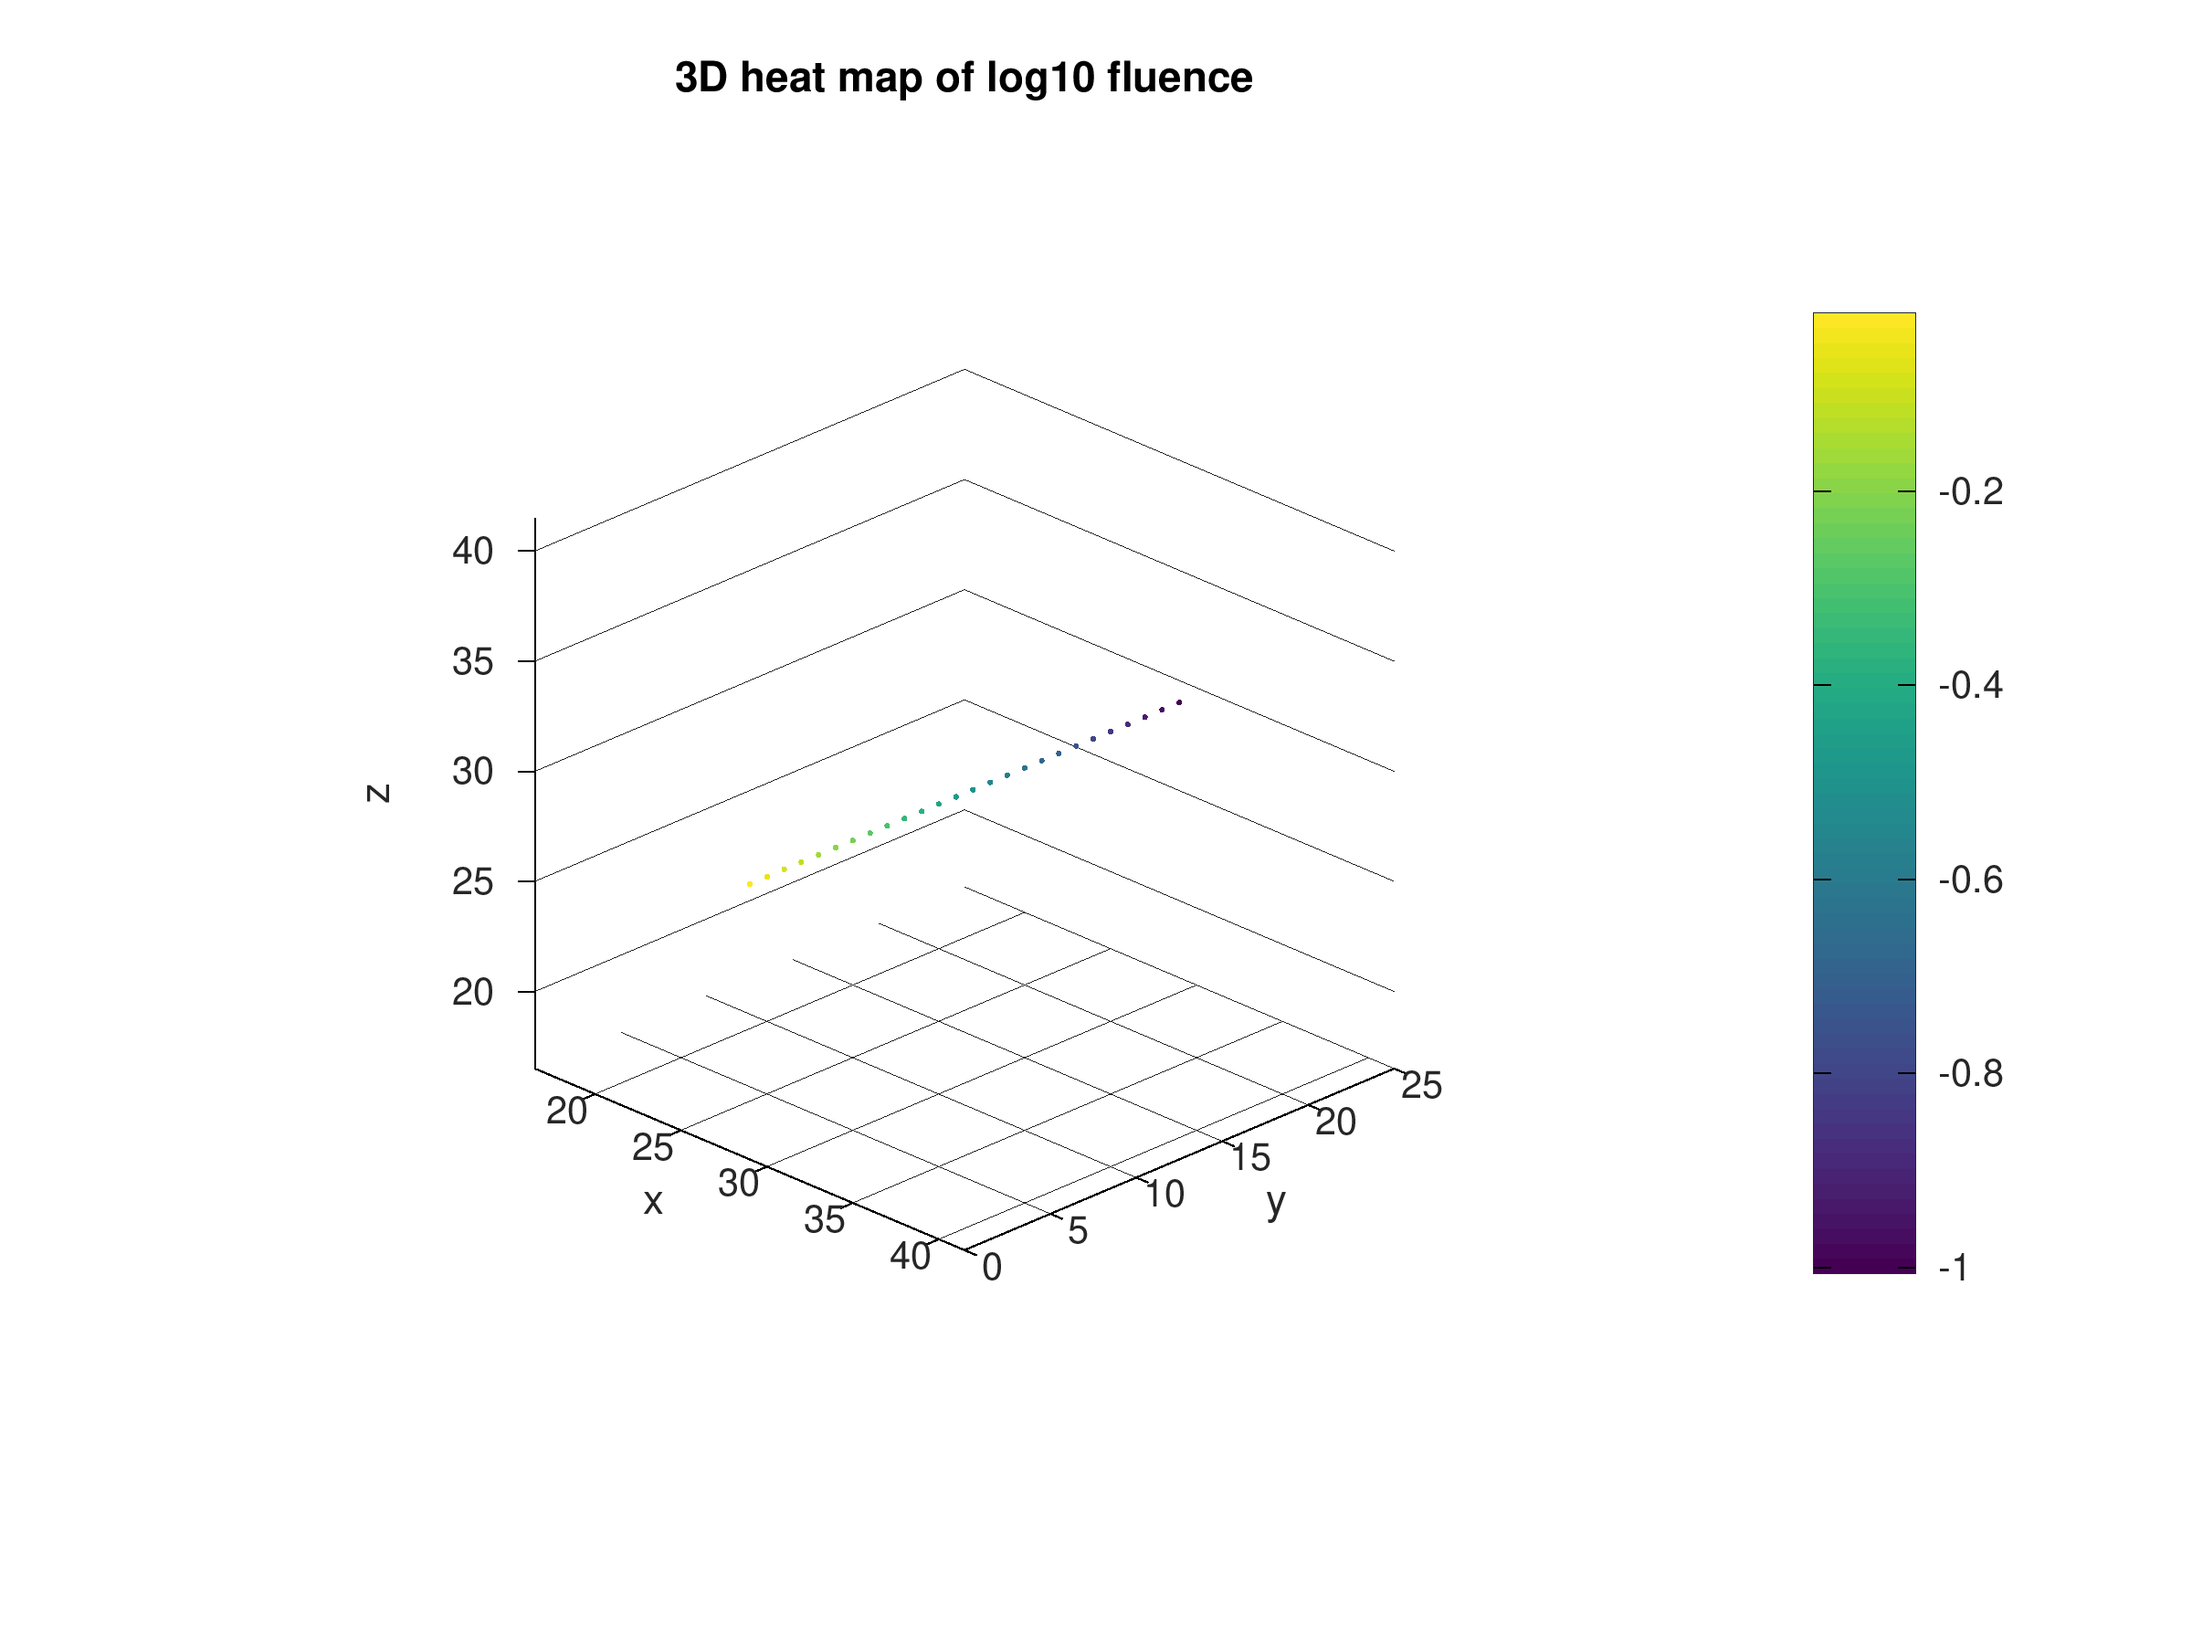
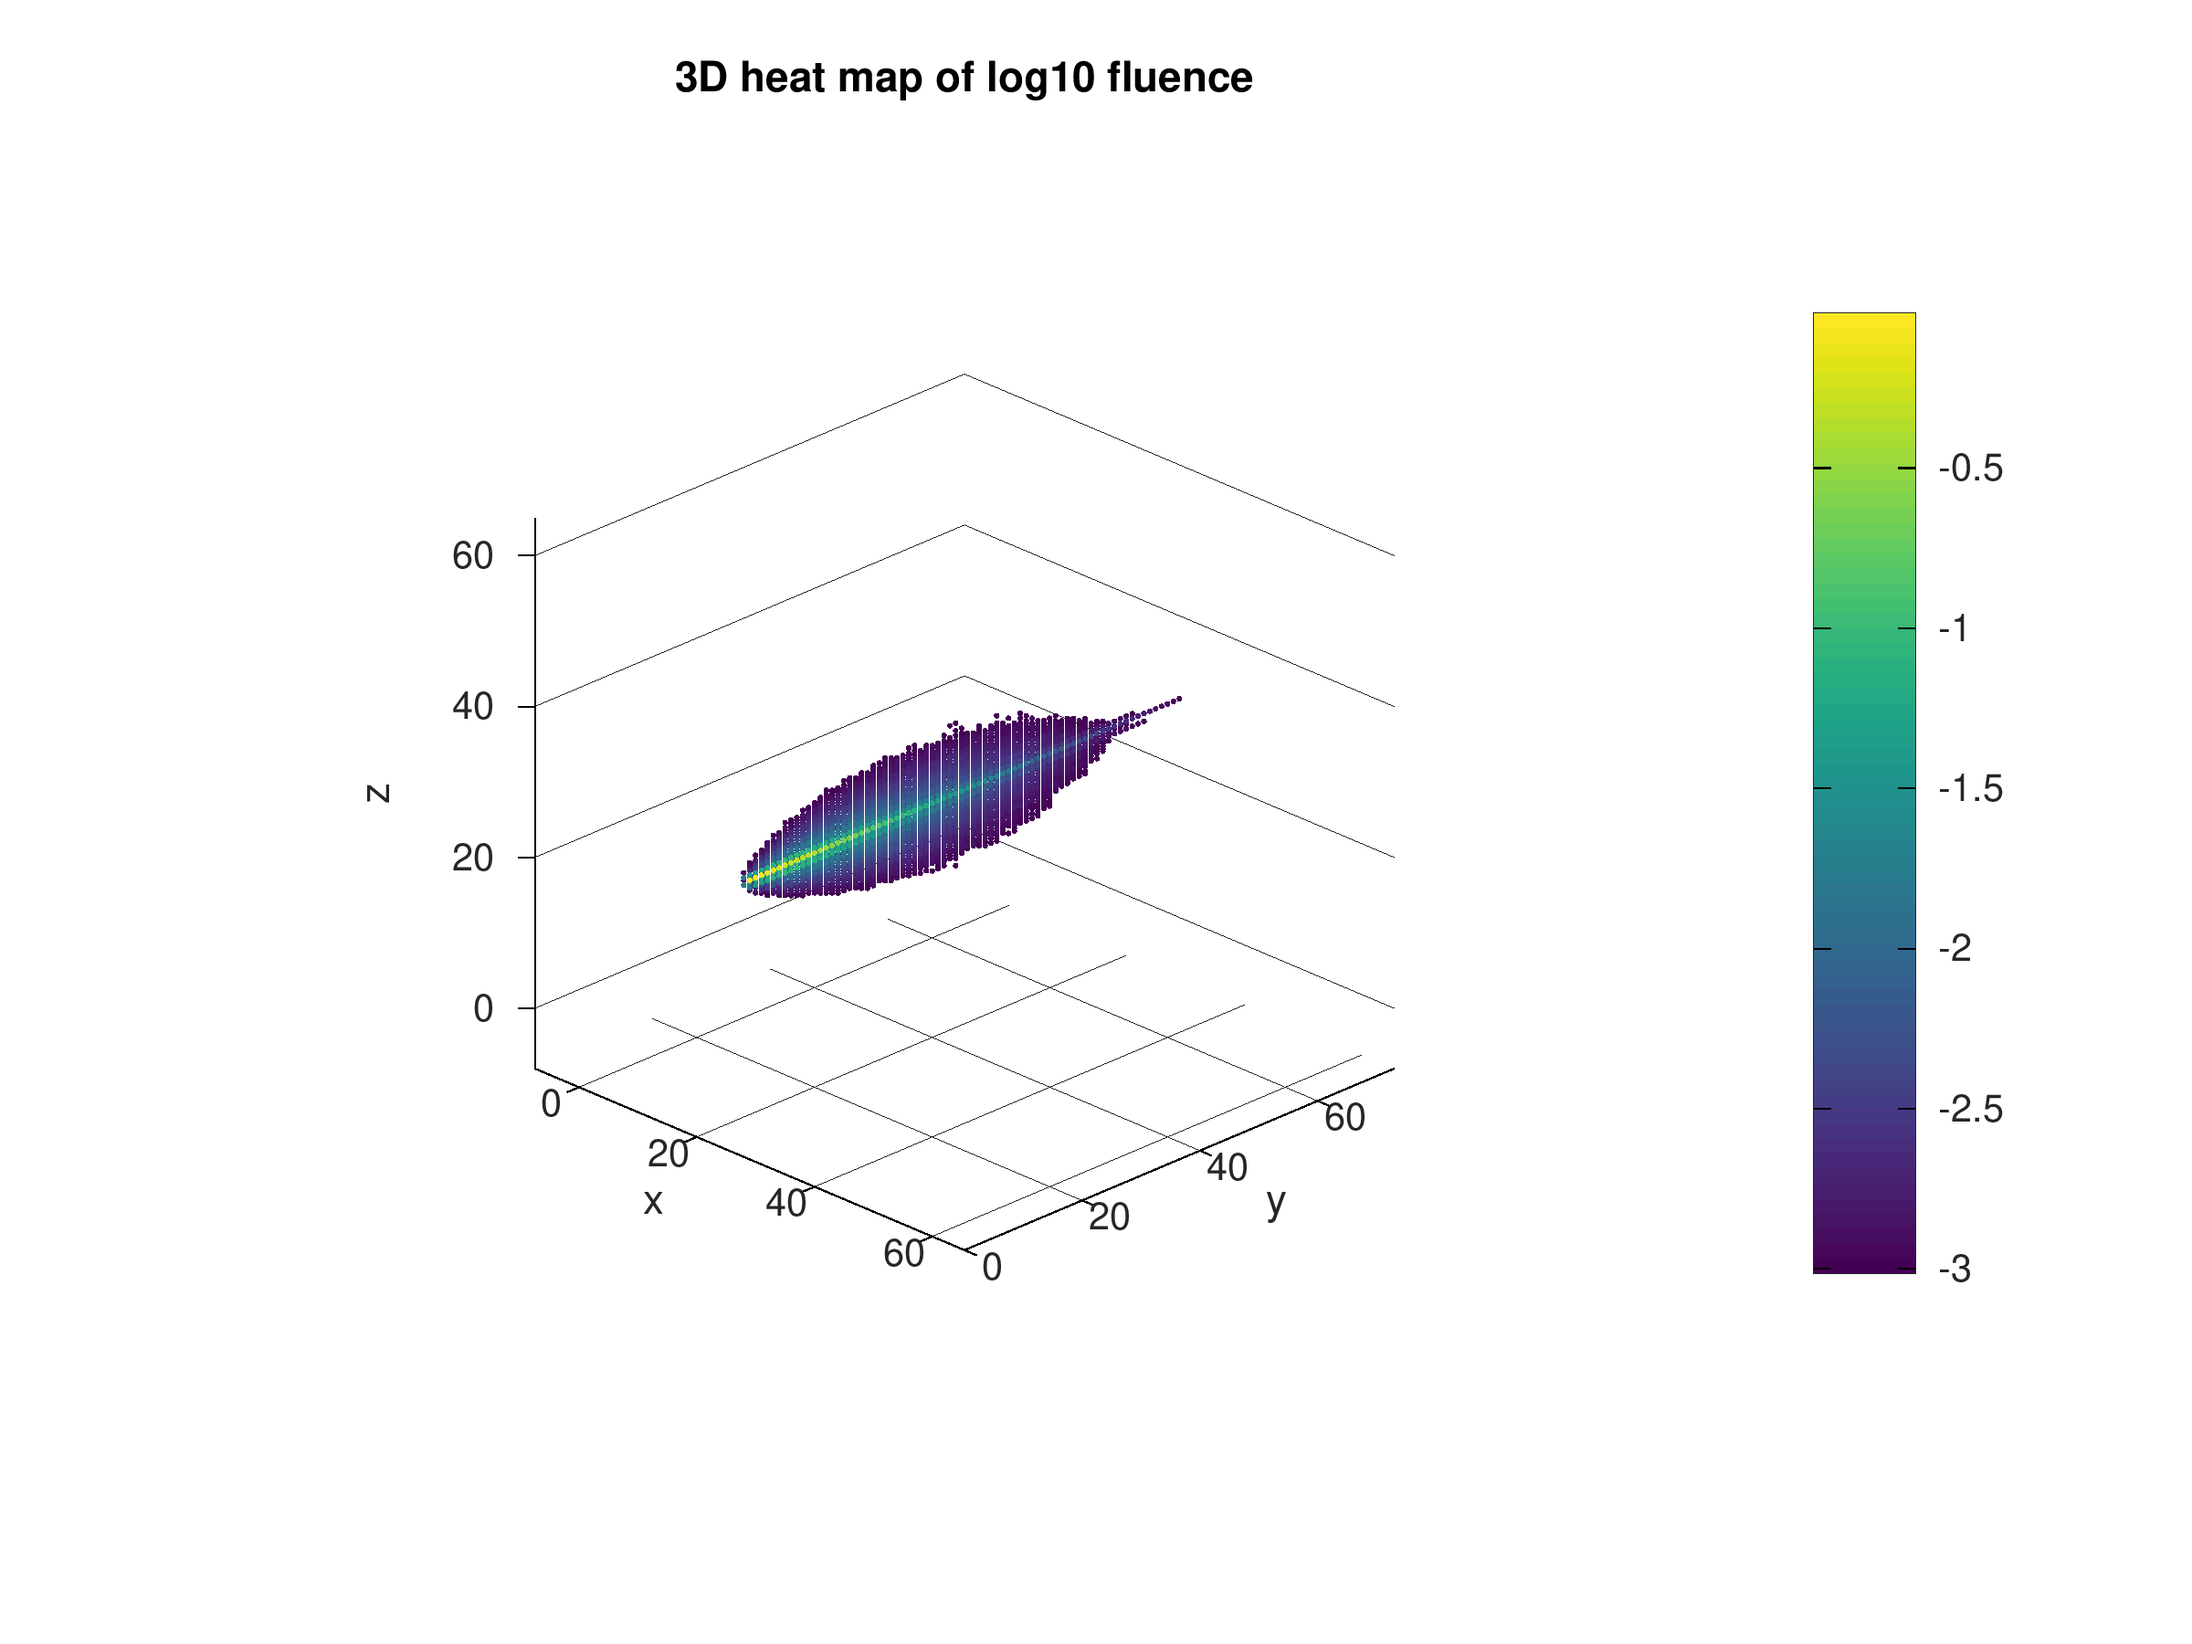
small changes

diff --git a/MonteCarlo/plotanalysis.m b/MonteCarlo/plotanalysis.m
@@ -23,7 +23,7 @@ F = fluence(:, :, :, 1);
 Flog = log10(F + eps);
 
 % Only plot voxels above a threshold
-threshold = max(F(:)) * 1e-1;
+threshold = max(F(:)) * 1e-3;
 mask = F >= threshold;
 
 % Build coordinate arrays
@@ -41,7 +41,7 @@ cv = Flog(mask);
 % ----------------------------------------
 figure("visible", "off");
 
-scatter3(xv, yv, zv, 12, cv, "filled");
+scatter3(xv, yv, zv, 6, cv, "filled");
 
 xlabel("x");
 ylabel("y");
